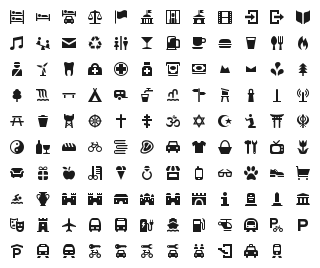
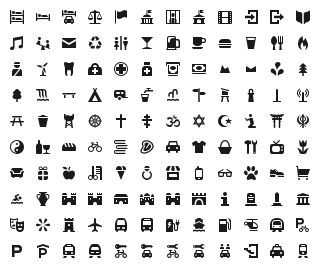
add viewpoint

diff --git a/font/osmic-preview.html b/font/osmic-preview.html
@@ -275,6 +275,7 @@
 .oc-tram-stop:before,
 .oc-tree-coniferous:before,
 .oc-tree-deciduous:before,
+.oc-viewpoint:before,
 .oc-waste-basket:before,
 .oc-watchtower:before,
 .oc-water-tower:before,
@@ -408,6 +409,7 @@
 .oc-tram-stop:before { content: "\f16b"; }
 .oc-tree-coniferous:before { content: "\f177"; }
 .oc-tree-deciduous:before { content: "\f176"; }
+.oc-viewpoint:before { content: "\f178"; }
 .oc-waste-basket:before { content: "\f16c"; }
 .oc-watchtower:before { content: "\f16d"; }
 .oc-water-tower:before { content: "\f16e"; }
@@ -427,7 +429,7 @@
   <body class="characters-off">
     <div id="page" class="container">
       <header>
-        <h1>osmic contains 119 glyphs:</h1>
+        <h1>osmic contains 120 glyphs:</h1>
         <a onclick="toggleCharacters(); return false;" href="#">Toggle Preview Characters</a>
       </header>
 
@@ -1924,6 +1926,19 @@
         <div class="usage">
           <input class="class" type="text" readonly="readonly" onClick="this.select();" value=".oc-tree-deciduous" />
           <input class="point" type="text" readonly="readonly" onClick="this.select();" value="&amp;#xf176;" />
+        </div>
+      </div>
+      
+      <div class="glyph">
+        <div class="preview-glyphs">
+          <span class="step size-12"><span class="letters">Pp</span><i id="oc-viewpoint" class="oc-viewpoint"></i></span><span class="step size-14"><span class="letters">Pp</span><i id="oc-viewpoint" class="oc-viewpoint"></i></span><span class="step size-16"><span class="letters">Pp</span><i id="oc-viewpoint" class="oc-viewpoint"></i></span><span class="step size-18"><span class="letters">Pp</span><i id="oc-viewpoint" class="oc-viewpoint"></i></span><span class="step size-21"><span class="letters">Pp</span><i id="oc-viewpoint" class="oc-viewpoint"></i></span><span class="step size-24"><span class="letters">Pp</span><i id="oc-viewpoint" class="oc-viewpoint"></i></span><span class="step size-36"><span class="letters">Pp</span><i id="oc-viewpoint" class="oc-viewpoint"></i></span><span class="step size-48"><span class="letters">Pp</span><i id="oc-viewpoint" class="oc-viewpoint"></i></span><span class="step size-60"><span class="letters">Pp</span><i id="oc-viewpoint" class="oc-viewpoint"></i></span><span class="step size-72"><span class="letters">Pp</span><i id="oc-viewpoint" class="oc-viewpoint"></i></span>
+        </div>
+        <div class="preview-scale">
+          <span class="step">12</span><span class="step">14</span><span class="step">16</span><span class="step">18</span><span class="step">21</span><span class="step">24</span><span class="step">36</span><span class="step">48</span><span class="step">60</span><span class="step">72</span>
+        </div>
+        <div class="usage">
+          <input class="class" type="text" readonly="readonly" onClick="this.select();" value=".oc-viewpoint" />
+          <input class="point" type="text" readonly="readonly" onClick="this.select();" value="&amp;#xf178;" />
         </div>
       </div>
       

diff --git a/font/osmic.css b/font/osmic.css
@@ -138,6 +138,7 @@
 .oc-tram-stop:before,
 .oc-tree-coniferous:before,
 .oc-tree-deciduous:before,
+.oc-viewpoint:before,
 .oc-waste-basket:before,
 .oc-watchtower:before,
 .oc-water-tower:before,
@@ -271,6 +272,7 @@
 .oc-tram-stop:before { content: "\f16b"; }
 .oc-tree-coniferous:before { content: "\f177"; }
 .oc-tree-deciduous:before { content: "\f176"; }
+.oc-viewpoint:before { content: "\f178"; }
 .oc-waste-basket:before { content: "\f16c"; }
 .oc-watchtower:before { content: "\f16d"; }
 .oc-water-tower:before { content: "\f16e"; }

diff --git a/README.md b/README.md
@@ -1,6 +1,6 @@
 # Osmic (OSM Icons)
 
-A collection of 100+ clean high quality SVG map icons licensed under [CC0](https://creativecommons.org/publicdomain/zero/1.0/) (Public Domain) and also available as [icon font](https://github.com/nebulon42/osmic/tree/master/font), which is licensed under [SIL OFL](http://scripts.sil.org/OFL). Below you see a possible preview (these are 2x the [original size](https://github.com/nebulon42/osmic/raw/master/icons.png)).
+A collection of 120+ clean high quality SVG map icons licensed under [CC0](https://creativecommons.org/publicdomain/zero/1.0/) (Public Domain) and also available as [icon font](https://github.com/nebulon42/osmic/tree/master/font), which is licensed under [SIL OFL](http://scripts.sil.org/OFL). Below you see a possible preview (these are 2x the [original size](https://github.com/nebulon42/osmic/raw/master/icons.png)).
 
 ![Osmic (OSM Icons)](https://github.com/nebulon42/osmic/raw/master/icons@2x.png "Available icons")
 
